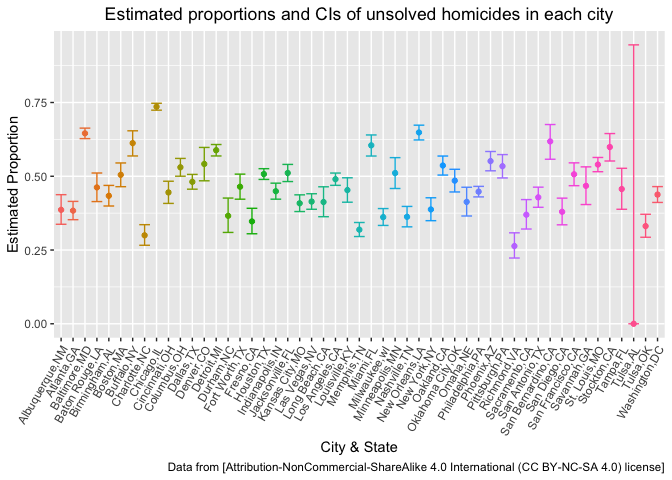
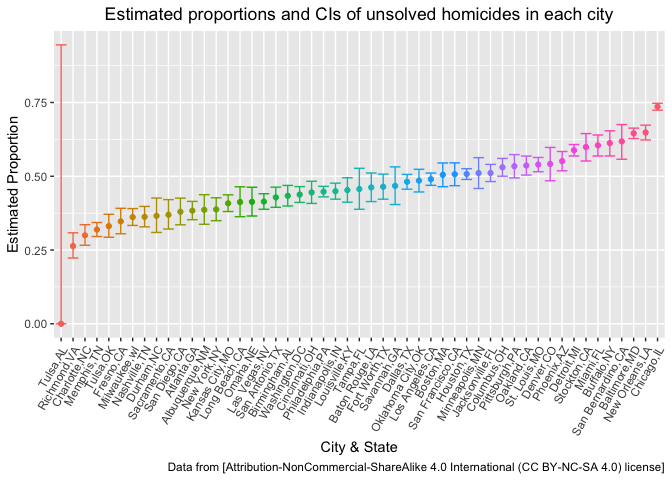
Organize cities according to the proportion of unsolved homicides and save the plot to a file folder.

diff --git a/p8105_hw5_zc2610.md b/p8105_hw5_zc2610.md
@@ -166,10 +166,35 @@ result_df %>%
     ## Warning: `cols` is now required when using unnest().
     ## Please use `cols = c(Tidy_city_unsolved_homicide)`
 
-Create a plot that shows the estimates and CIs for each city
+``` r
+    tidy_hypothesis_result_df
+```
+
+    ## # A tibble: 51 × 4
+    ##    city_state     estimate conf.low conf.high
+    ##    <chr>             <dbl>    <dbl>     <dbl>
+    ##  1 Albuquerque,NM    0.386    0.337     0.438
+    ##  2 Atlanta,GA        0.383    0.353     0.415
+    ##  3 Baltimore,MD      0.646    0.628     0.663
+    ##  4 Baton Rouge,LA    0.462    0.414     0.511
+    ##  5 Birmingham,AL     0.434    0.399     0.469
+    ##  6 Boston,MA         0.505    0.465     0.545
+    ##  7 Buffalo,NY        0.612    0.569     0.654
+    ##  8 Charlotte,NC      0.300    0.266     0.336
+    ##  9 Chicago,IL        0.736    0.724     0.747
+    ## 10 Cincinnati,OH     0.445    0.408     0.483
+    ## # … with 41 more rows
+
+1.  Create a plot that shows the estimates and CIs for each city
+
+2.  Organize cities according to the proportion of unsolved homicides
+    and save the plot to a file folder.
 
 ``` r
-tidy_hypothesis_result_df %>% 
+tidy_hypothesis_result_df = tidy_hypothesis_result_df %>% 
+  mutate(
+    city_state = fct_reorder(city_state, estimate)
+  ) %>% 
   ggplot(aes(x = city_state,y = estimate,color = city_state)) +
   geom_point() +
   geom_errorbar(aes(ymax = conf.high,ymin = conf.low)) +
@@ -179,7 +204,13 @@ tidy_hypothesis_result_df %>%
      y = "Estimated Proportion",
     caption = "Data from [Attribution-NonCommercial-ShareAlike 4.0 International (CC BY-NC-SA 4.0) license]"
   ) +
-  theme(axis.text.x = element_text(angle = 60, hjust = 1),plot.title = element_text(hjust = 0.5),legend.position = "none") 
+  theme(axis.text.x = element_text(angle = 60, hjust = 1),plot.title = element_text(hjust = 0.5),legend.position = "none")
+
+tidy_hypothesis_result_df
 ```
 
 ![](p8105_hw5_zc2610_files/figure-gfm/unnamed-chunk-8-1.png)<!-- -->
+
+``` r
+  ggsave("./plots/Estimated_proportions_and_CIs_for_each_city.pdf",tidy_hypothesis_result_df, width = 8, height = 5)
+```
